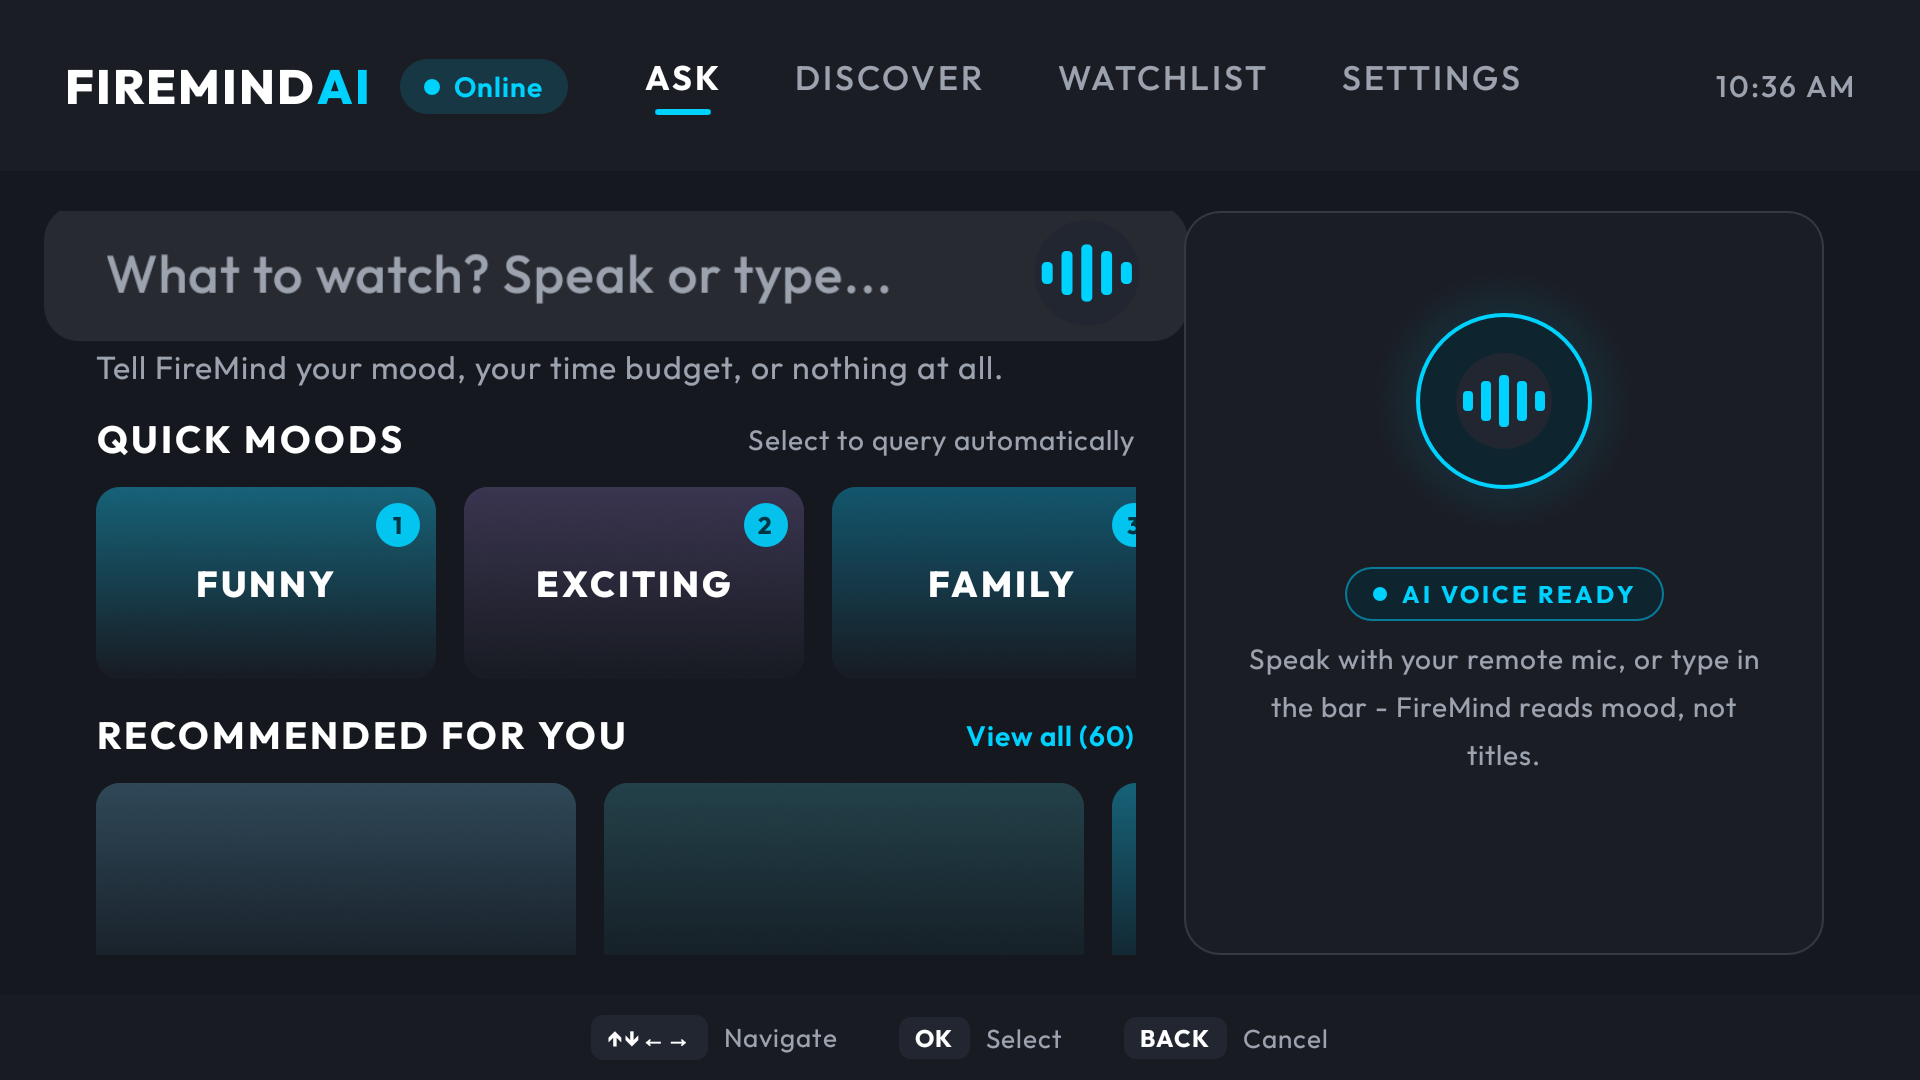
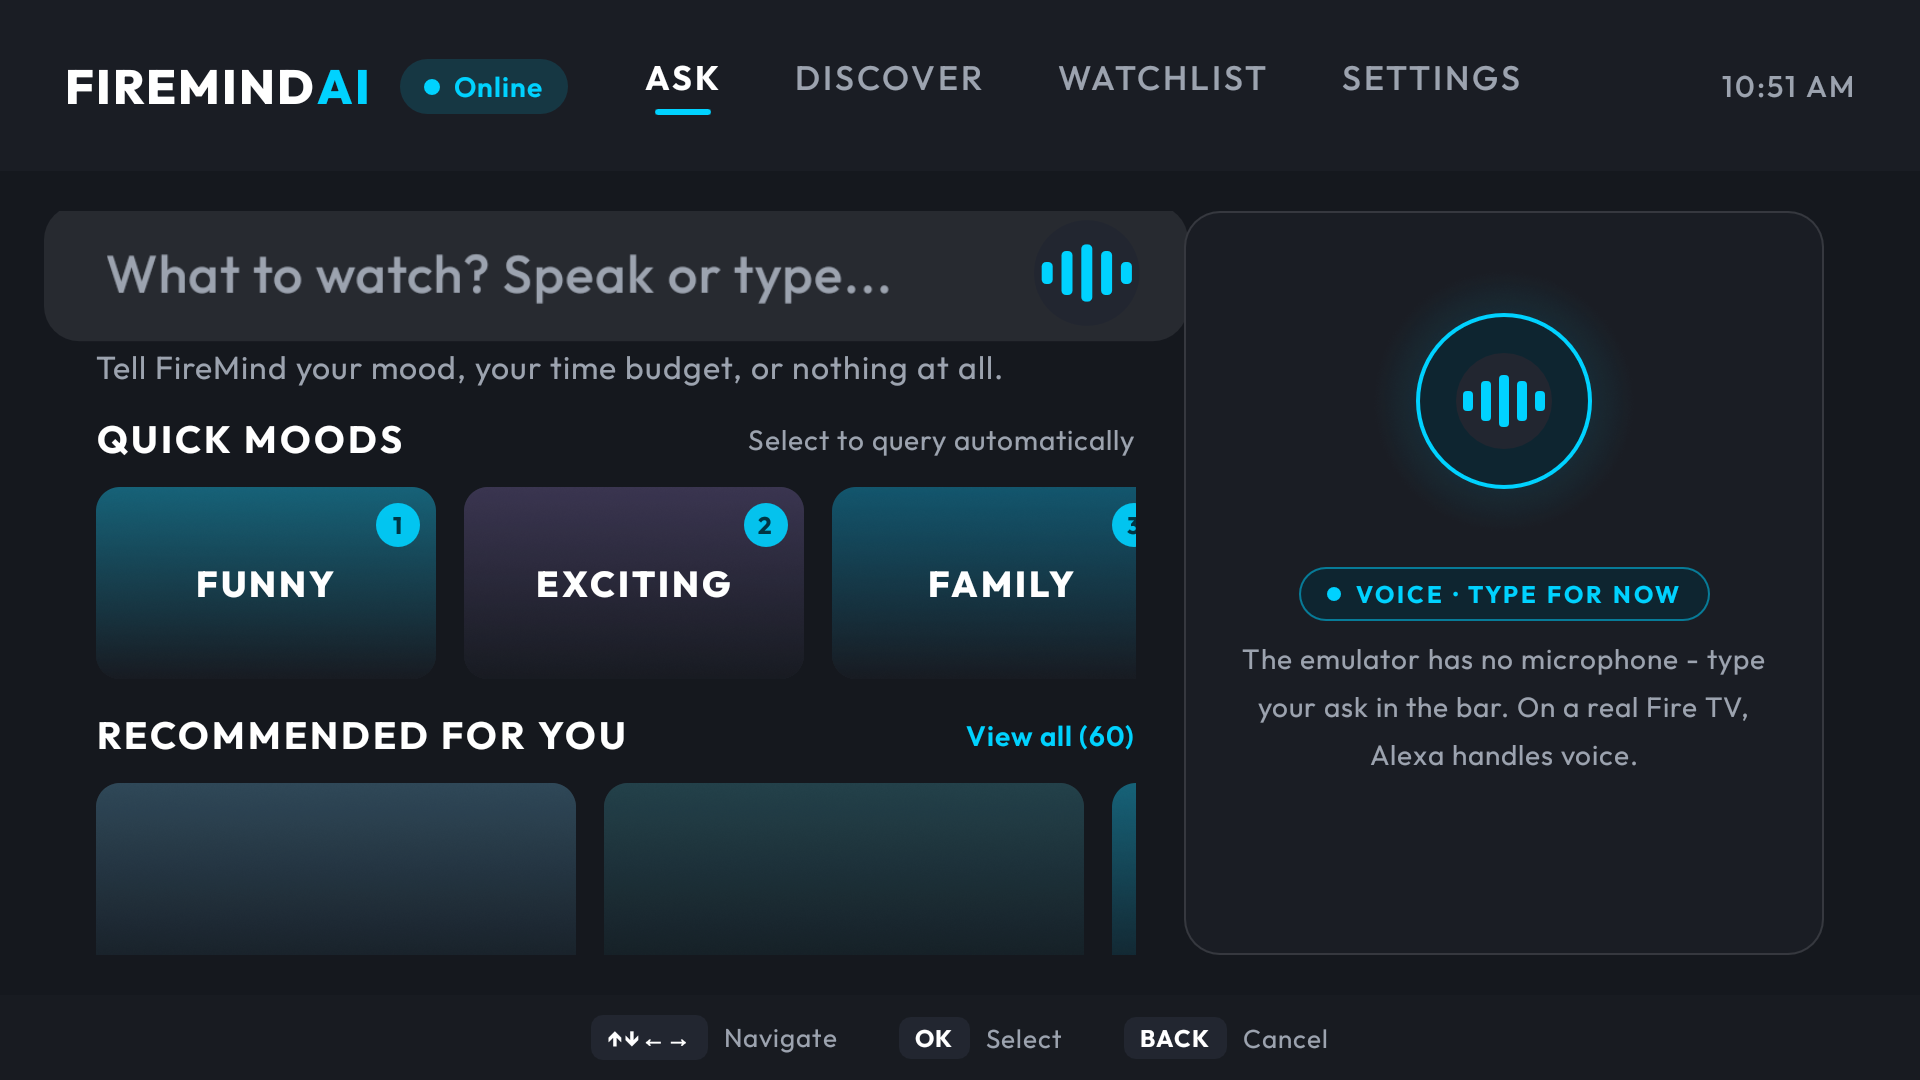
fix: voice panel states the truth - type for now, Alexa owns voice on real hardware
🤖 Generated with Codebuff

Changed region(s): [[0.6562, 0.5194, 0.9062, 0.7028], [0.875, 0.0611, 0.9375, 0.0917]]

diff --git a/app/src/main/java/com/firemind/app/ui/home/HomeScreen.kt b/app/src/main/java/com/firemind/app/ui/home/HomeScreen.kt
@@ -281,7 +281,7 @@ private fun VoiceInsightPanel(
             Box(Modifier.size(7.dp).background(Cyan, CircleShape))
             Spacer(Modifier.width(7.dp))
             Text(
-                "AI VOICE READY",
+                "VOICE · TYPE FOR NOW",
                 fontSize = 12.sp,
                 fontWeight = FontWeight.Bold,
                 fontFamily = Outfit,
@@ -291,7 +291,7 @@ private fun VoiceInsightPanel(
         }
         Spacer(Modifier.height(10.dp))
         Text(
-            "Speak with your remote mic, or type in the bar - FireMind reads mood, not titles.",
+            "The emulator has no microphone - type your ask in the bar. On a real Fire TV, Alexa handles voice.",
             fontSize = 14.sp,
             fontFamily = Outfit,
             color = TextSoft,
